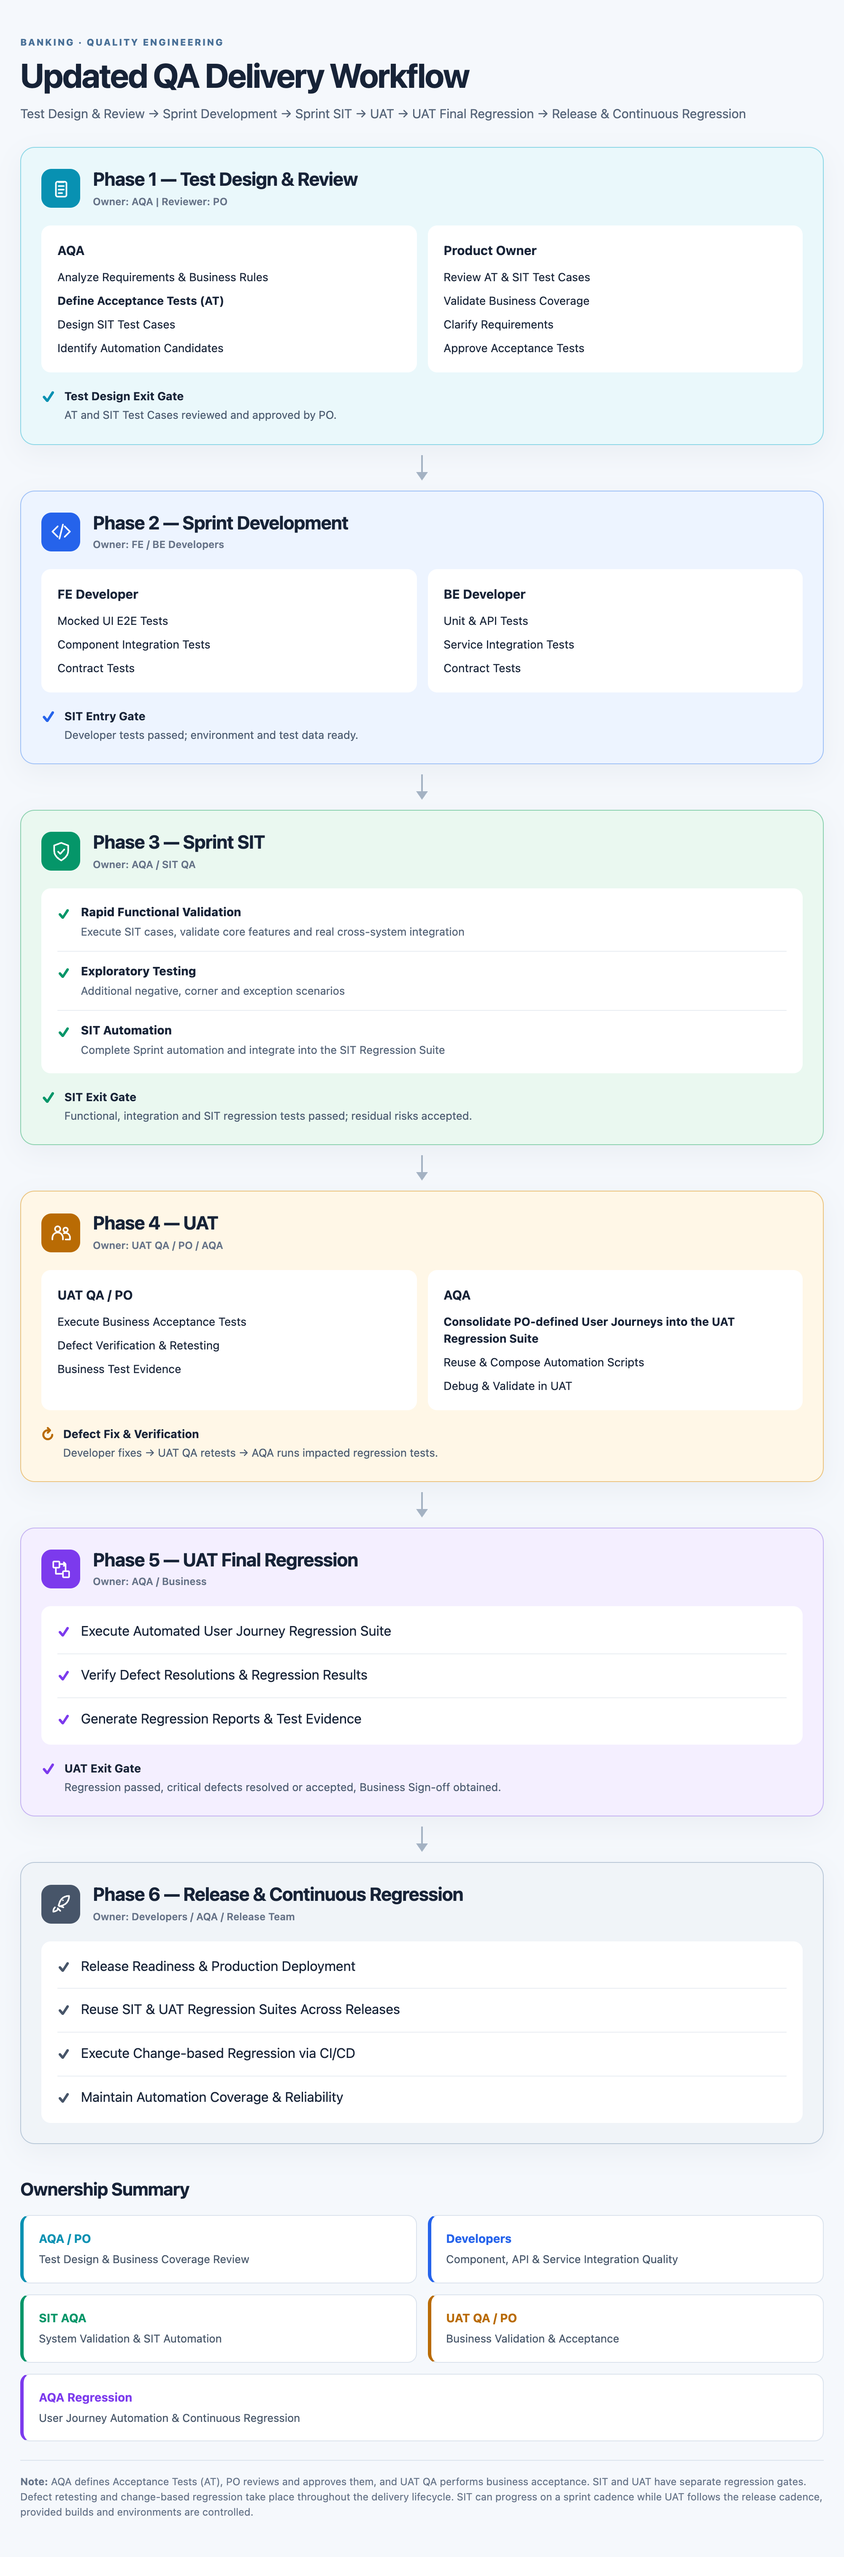
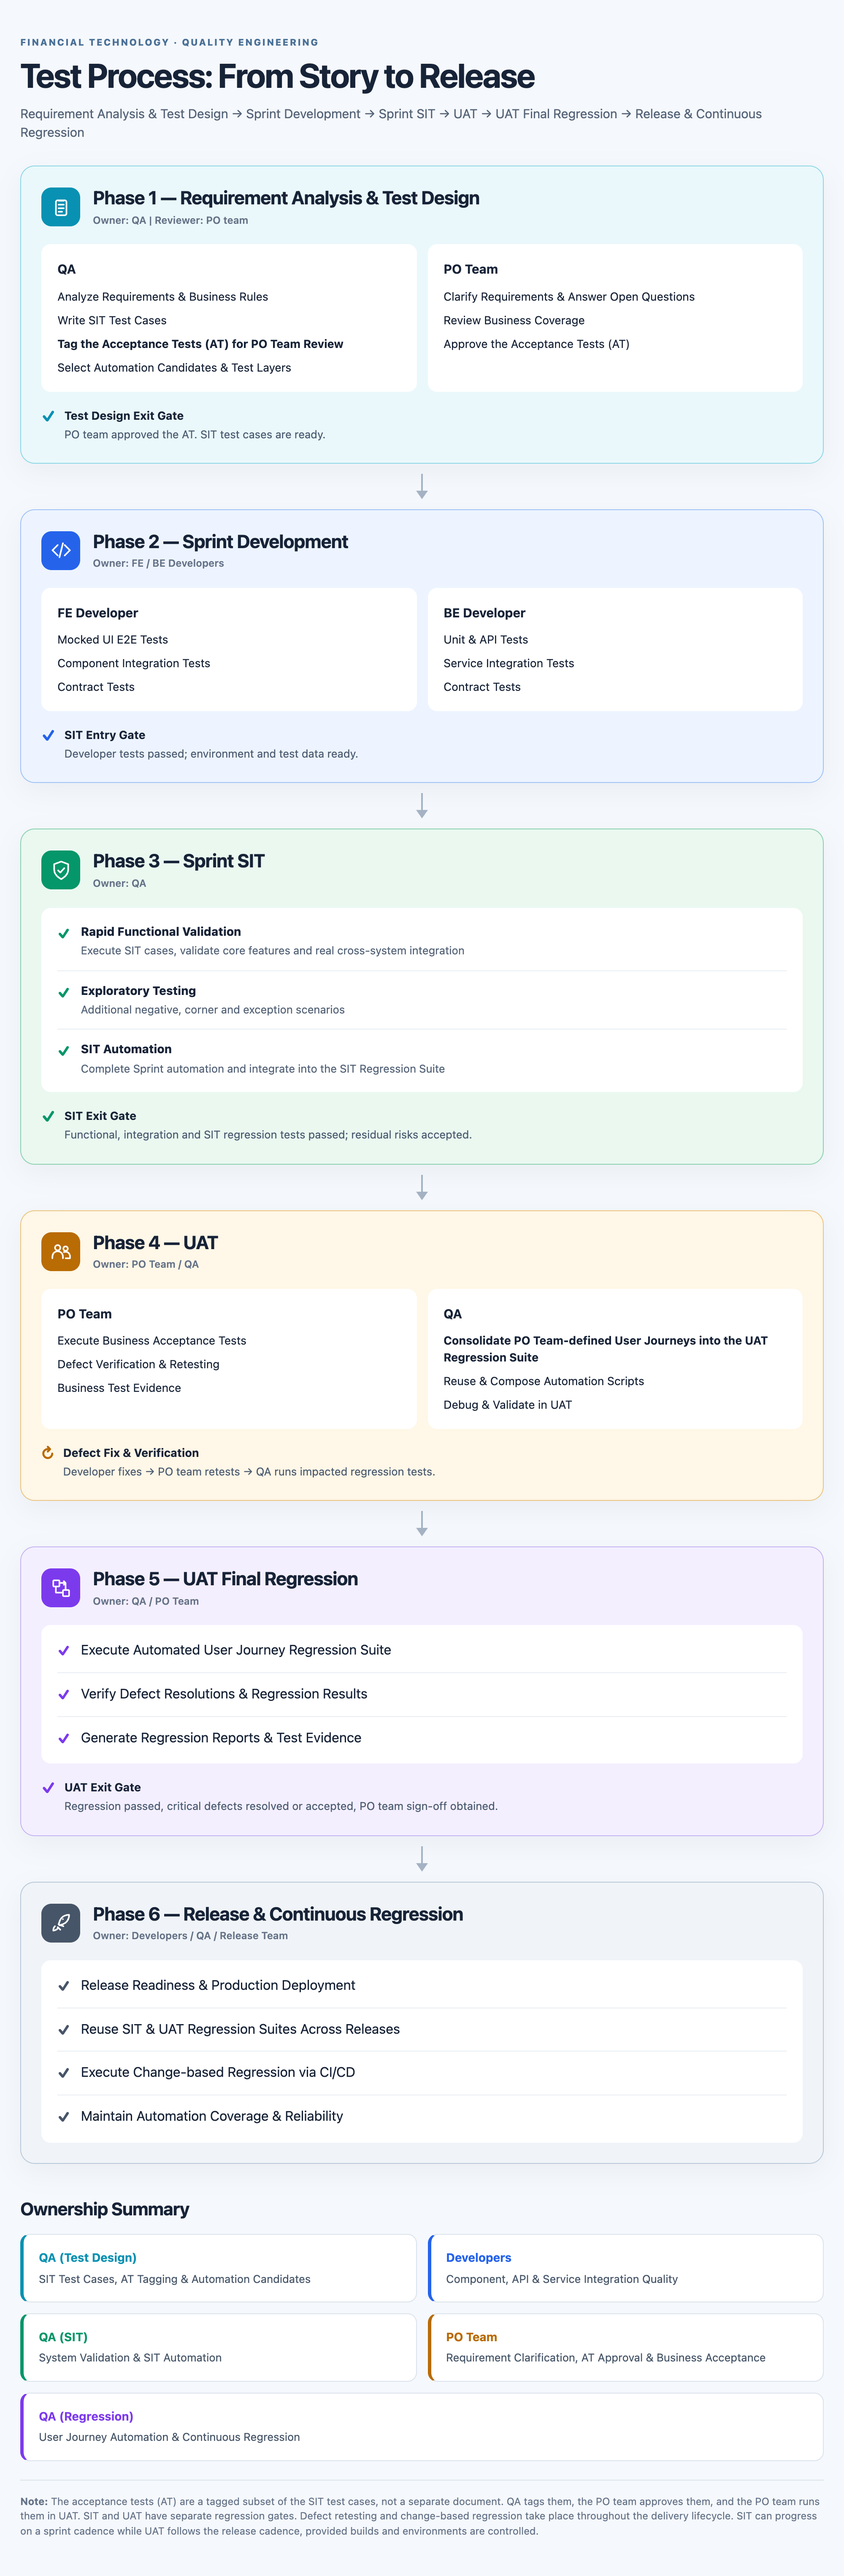
docs: rename roles to QA and PO team in the test process

diff --git a/docs/test-process.html b/docs/test-process.html
@@ -4,7 +4,7 @@
   <meta charset="UTF-8" />
   <meta name="viewport" content="width=device-width, initial-scale=1" />
   <meta name="color-scheme" content="light" />
-  <title>Updated QA Delivery Workflow | Banking Quality Engineering</title>
+  <title>Test Process: From Story to Release</title>
   <style>
     :root {
       --ink: #172337;
@@ -110,22 +110,22 @@
 <body>
   <main class="wrap">
     <header class="masthead">
-      <p class="eyebrow">Banking · Quality Engineering</p>
-      <h1>Updated QA Delivery Workflow</h1>
-      <p class="subtitle">Test Design &amp; Review → Sprint Development → Sprint SIT → UAT → UAT Final Regression → Release &amp; Continuous Regression</p>
+      <p class="eyebrow">Financial Technology · Quality Engineering</p>
+      <h1>Test Process: From Story to Release</h1>
+      <p class="subtitle">Requirement Analysis &amp; Test Design → Sprint Development → Sprint SIT → UAT → UAT Final Regression → Release &amp; Continuous Regression</p>
     </header>
     <div class="actions"><button class="print-btn" onclick="window.print()" aria-label="Print or save workflow as PDF">Print / Save as PDF</button></div>
 
     <section class="phase cyan" aria-labelledby="phase-1">
       <div class="heading">
         <div class="phase-icon" aria-hidden="true"><svg viewBox="0 0 24 24"><rect x="6" y="4" width="12" height="17" rx="2"/><path d="M9 4.5h6M9 9h6M9 13h6M9 17h4"/></svg></div>
-        <div><h2 id="phase-1">Phase 1 — Test Design &amp; Review</h2><p class="owner">Owner: AQA | Reviewer: PO</p></div>
+        <div><h2 id="phase-1">Phase 1 — Requirement Analysis &amp; Test Design</h2><p class="owner">Owner: QA | Reviewer: PO team</p></div>
       </div>
       <div class="two-col">
-        <div class="inner"><h3>AQA</h3><p>Analyze Requirements &amp; Business Rules</p><p><strong>Define Acceptance Tests (AT)</strong></p><p>Design SIT Test Cases</p><p>Identify Automation Candidates</p></div>
-        <div class="inner"><h3>Product Owner</h3><p>Review AT &amp; SIT Test Cases</p><p>Validate Business Coverage</p><p>Clarify Requirements</p><p>Approve Acceptance Tests</p></div>
+        <div class="inner"><h3>QA</h3><p>Analyze Requirements &amp; Business Rules</p><p>Write SIT Test Cases</p><p><strong>Tag the Acceptance Tests (AT) for PO Team Review</strong></p><p>Select Automation Candidates &amp; Test Layers</p></div>
+        <div class="inner"><h3>PO Team</h3><p>Clarify Requirements &amp; Answer Open Questions</p><p>Review Business Coverage</p><p>Approve the Acceptance Tests (AT)</p></div>
       </div>
-      <div class="gate"><span class="seal">✓</span><div><strong>Test Design Exit Gate</strong><span>AT and SIT Test Cases reviewed and approved by PO.</span></div></div>
+      <div class="gate"><span class="seal">✓</span><div><strong>Test Design Exit Gate</strong><span>PO team approved the AT. SIT test cases are ready.</span></div></div>
     </section>
 
     <div class="flow-arrow" aria-hidden="true"></div>
@@ -147,7 +147,7 @@
     <section class="phase green" aria-labelledby="phase-3">
       <div class="heading">
         <div class="phase-icon" aria-hidden="true"><svg viewBox="0 0 24 24"><path d="M12 2 4 5v6c0 5 3.5 8.4 8 11 4.5-2.6 8-6 8-11V5l-8-3Z"/><path d="m8.5 12 2.5 2.5 4.5-5"/></svg></div>
-        <div><h2 id="phase-3">Phase 3 — Sprint SIT</h2><p class="owner">Owner: AQA / SIT QA</p></div>
+        <div><h2 id="phase-3">Phase 3 — Sprint SIT</h2><p class="owner">Owner: QA</p></div>
       </div>
       <div class="inner items">
         <div class="item"><span class="check">✓</span><div><span class="item-title">Rapid Functional Validation</span><span class="item-desc">Execute SIT cases, validate core features and real cross-system integration</span></div></div>
@@ -162,13 +162,13 @@
     <section class="phase amber" aria-labelledby="phase-4">
       <div class="heading">
         <div class="phase-icon" aria-hidden="true"><svg viewBox="0 0 24 24"><circle cx="8" cy="8" r="3"/><circle cx="17" cy="9" r="2.5"/><path d="M2 20v-2a6 6 0 0 1 12 0v2m1-7a5 5 0 0 1 7 4.5V20h-5"/></svg></div>
-        <div><h2 id="phase-4">Phase 4 — UAT</h2><p class="owner">Owner: UAT QA / PO / AQA</p></div>
+        <div><h2 id="phase-4">Phase 4 — UAT</h2><p class="owner">Owner: PO Team / QA</p></div>
       </div>
       <div class="two-col">
-        <div class="inner"><h3>UAT QA / PO</h3><p>Execute Business Acceptance Tests</p><p>Defect Verification &amp; Retesting</p><p>Business Test Evidence</p></div>
-        <div class="inner"><h3>AQA</h3><p><strong>Consolidate PO-defined User Journeys into the UAT Regression Suite</strong></p><p>Reuse &amp; Compose Automation Scripts</p><p>Debug &amp; Validate in UAT</p></div>
+        <div class="inner"><h3>PO Team</h3><p>Execute Business Acceptance Tests</p><p>Defect Verification &amp; Retesting</p><p>Business Test Evidence</p></div>
+        <div class="inner"><h3>QA</h3><p><strong>Consolidate PO Team-defined User Journeys into the UAT Regression Suite</strong></p><p>Reuse &amp; Compose Automation Scripts</p><p>Debug &amp; Validate in UAT</p></div>
       </div>
-      <div class="gate"><span class="seal">↻</span><div><strong>Defect Fix &amp; Verification</strong><span>Developer fixes → UAT QA retests → AQA runs impacted regression tests.</span></div></div>
+      <div class="gate"><span class="seal">↻</span><div><strong>Defect Fix &amp; Verification</strong><span>Developer fixes → PO team retests → QA runs impacted regression tests.</span></div></div>
     </section>
 
     <div class="flow-arrow" aria-hidden="true"></div>
@@ -176,14 +176,14 @@
     <section class="phase violet" aria-labelledby="phase-5">
       <div class="heading">
         <div class="phase-icon" aria-hidden="true"><svg viewBox="0 0 24 24"><rect x="3" y="3" width="7" height="7" rx="1"/><rect x="14" y="14" width="7" height="7" rx="1"/><path d="M10 6h7v8M6 10v7h8M17 6l-2-2m2 2-2 2"/></svg></div>
-        <div><h2 id="phase-5">Phase 5 — UAT Final Regression</h2><p class="owner">Owner: AQA / Business</p></div>
+        <div><h2 id="phase-5">Phase 5 — UAT Final Regression</h2><p class="owner">Owner: QA / PO Team</p></div>
       </div>
       <div class="inner items">
         <div class="item"><span class="check">✓</span><div>Execute Automated User Journey Regression Suite</div></div>
         <div class="item"><span class="check">✓</span><div>Verify Defect Resolutions &amp; Regression Results</div></div>
         <div class="item"><span class="check">✓</span><div>Generate Regression Reports &amp; Test Evidence</div></div>
       </div>
-      <div class="gate"><span class="seal">✓</span><div><strong>UAT Exit Gate</strong><span>Regression passed, critical defects resolved or accepted, Business Sign-off obtained.</span></div></div>
+      <div class="gate"><span class="seal">✓</span><div><strong>UAT Exit Gate</strong><span>Regression passed, critical defects resolved or accepted, PO team sign-off obtained.</span></div></div>
     </section>
 
     <div class="flow-arrow" aria-hidden="true"></div>
@@ -191,7 +191,7 @@
     <section class="phase slate" aria-labelledby="phase-6">
       <div class="heading">
         <div class="phase-icon" aria-hidden="true"><svg viewBox="0 0 24 24"><path d="M5 16c-1.5 1-2 3-2 5 2-.2 4-1 5-2.5m6.5-2.5L9 14l1.5-4.5A11 11 0 0 1 21 3a11 11 0 0 1-6.5 10.5L10 15m-2 2 3 3M14 8h.01"/></svg></div>
-        <div><h2 id="phase-6">Phase 6 — Release &amp; Continuous Regression</h2><p class="owner">Owner: Developers / AQA / Release Team</p></div>
+        <div><h2 id="phase-6">Phase 6 — Release &amp; Continuous Regression</h2><p class="owner">Owner: Developers / QA / Release Team</p></div>
       </div>
       <div class="inner items">
         <div class="item"><span class="check">✓</span><div>Release Readiness &amp; Production Deployment</div></div>
@@ -204,15 +204,15 @@
     <section aria-labelledby="ownership-heading">
       <h2 id="ownership-heading" class="section-title">Ownership Summary</h2>
       <div class="ownership">
-        <div class="ownership-card" style="--accent:#0891b2"><h3>AQA / PO</h3><p>Test Design &amp; Business Coverage Review</p></div>
+        <div class="ownership-card" style="--accent:#0891b2"><h3>QA (Test Design)</h3><p>SIT Test Cases, AT Tagging &amp; Automation Candidates</p></div>
         <div class="ownership-card" style="--accent:#2563eb"><h3>Developers</h3><p>Component, API &amp; Service Integration Quality</p></div>
-        <div class="ownership-card" style="--accent:#059669"><h3>SIT AQA</h3><p>System Validation &amp; SIT Automation</p></div>
-        <div class="ownership-card" style="--accent:#b96b04"><h3>UAT QA / PO</h3><p>Business Validation &amp; Acceptance</p></div>
-        <div class="ownership-card" style="--accent:#7c3aed"><h3>AQA Regression</h3><p>User Journey Automation &amp; Continuous Regression</p></div>
+        <div class="ownership-card" style="--accent:#059669"><h3>QA (SIT)</h3><p>System Validation &amp; SIT Automation</p></div>
+        <div class="ownership-card" style="--accent:#b96b04"><h3>PO Team</h3><p>Requirement Clarification, AT Approval &amp; Business Acceptance</p></div>
+        <div class="ownership-card" style="--accent:#7c3aed"><h3>QA (Regression)</h3><p>User Journey Automation &amp; Continuous Regression</p></div>
       </div>
     </section>
-    <p class="note"><strong>Note:</strong> AQA defines Acceptance Tests (AT), PO reviews and approves them, and UAT QA performs business acceptance. SIT and UAT have separate regression gates. Defect retesting and change-based regression take place throughout the delivery lifecycle. SIT can progress on a sprint cadence while UAT follows the release cadence, provided builds and environments are controlled.</p>
-    <footer>Banking QA Delivery Workflow · Standalone, printable HTML</footer>
+    <p class="note"><strong>Note:</strong> The acceptance tests (AT) are a tagged subset of the SIT test cases, not a separate document. QA tags them, the PO team approves them, and the PO team runs them in UAT. SIT and UAT have separate regression gates. Defect retesting and change-based regression take place throughout the delivery lifecycle. SIT can progress on a sprint cadence while UAT follows the release cadence, provided builds and environments are controlled.</p>
+    <footer>Test Process: From Story to Release · Standalone, printable HTML</footer>
   </main>
 </body>
 </html>
